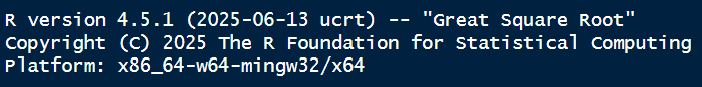
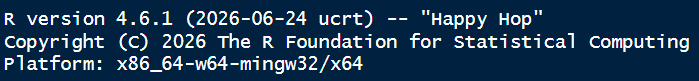
fixed install R instructions

Changed region(s): [[0.0, 0.3704, 0.9914, 0.9136], [0.0, 0.1235, 0.9013, 0.3704]]

diff --git a/docs/prep-materials/install-r.html b/docs/prep-materials/install-r.html
@@ -229,8 +229,7 @@ ul.task-list li input[type="checkbox"] {
 <li>Step 1: Open RStudio</li>
 <li>Step 2: At the top of the the Console it will say what version of R you are using</li>
 </ul>
-<p><img src="images/week-1/r-version.png" class="img-fluid" alt="A screenshot of what version of R should appear when you open RStudio. The version reads 'R version 4.5.1 (2025-06-13) -- 'Great Square Root''."></p>
-<p>If the version <strong>is not</strong> 4.5.1 (like the image above), you need to update your version of R! The simplest way to do this is to follow the instructions below to install R.</p>
+<p><img src="images/week-1/r-version.png" class="img-fluid" alt="A screenshot of what version of R should appear when you open RStudio. The version reads 'R version 4.6.1 (2026-06-25) -- 'Happy Hop''."> :::{.callout-important} ## Check your R Version If the version <strong>is not</strong> 4.6.1, you need to update your version of R! The simplest way to do this is to follow the instructions below to install R. :::</p>
 </section>
 <section id="installing-r" class="level2">
 <h2 class="anchored" data-anchor-id="installing-r">Installing R</h2>
